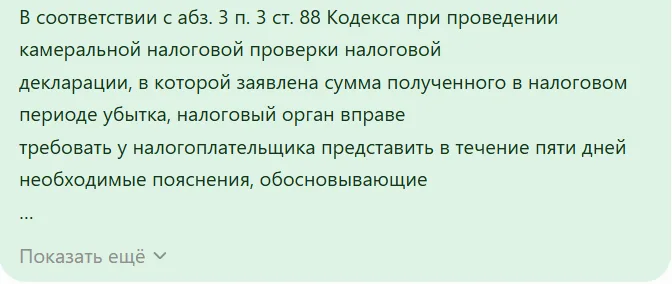
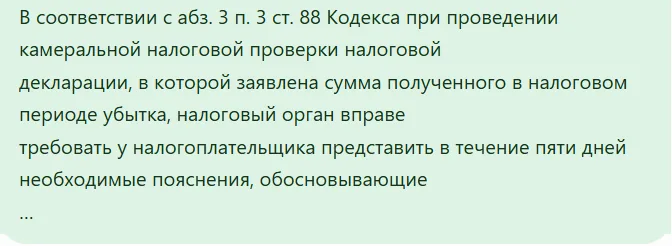
Обновление 04.10 12:43 МСК

diff --git a/proby.html b/proby.html
@@ -1,0 +1,105 @@
+<!DOCTYPE html>
+<html lang="ru">
+<head>
+<meta charset="utf-8">
+<meta name="viewport" content="width=device-width, initial-scale=1">
+<title>Черновик: три варианта прокрутки скриншотов</title>
+<meta name="robots" content="noindex, nofollow">
+<link rel="preconnect" href="https://fonts.googleapis.com">
+<link rel="preconnect" href="https://fonts.gstatic.com" crossorigin>
+<link rel="stylesheet" href="https://fonts.googleapis.com/css2?family=PT+Sans:wght@400;700&display=swap">
+<style>
+  * { box-sizing: border-box; }
+  body { margin: 0; background: #F7F5F1; color: #2B2E33; font: 17px/1.5 'PT Sans', system-ui, sans-serif; }
+  main { width: min(100% - 32px, 900px); margin: 0 auto; padding: 28px 0 80px; }
+  h1 { font-size: 26px; line-height: 1.2; margin: 0 0 8px; }
+  h2 { font-size: 22px; line-height: 1.25; margin: 44px 0 6px; color: #1B2A4A; }
+  .как { margin: 0 0 16px; color: #5A5D63; }
+  .окно { margin: 0; position: relative; padding-top: 24px; border-radius: 18px; overflow: hidden; background: #F7F5F1;
+    border: 1px solid #E2E0DA; box-shadow: 0 12px 34px rgba(43, 46, 51, .06); }
+  .окно::before { content: ""; position: absolute; inset: 0 0 auto; height: 24px; background: #E9E7E2; border-bottom: 1px solid #E2E0DA; }
+  .окно::after { content: ""; position: absolute; top: 8px; left: 12px; width: 8px; height: 8px; border-radius: 50%; background: #1B2A4A;
+    box-shadow: 14px 0 0 rgba(27, 42, 74, .55), 28px 0 0 rgba(27, 42, 74, .3); }
+  .окно img { display: block; height: auto; mix-blend-mode: multiply; }
+  .окно figcaption { padding: 10px 20px 18px; font-size: 14px; color: #5A5D63; }
+  .окно + .окно { margin-top: 16px; }
+
+  /* 1 · листать между двумя */
+  .лента { display: flex; overflow-x: auto; scroll-snap-type: x mandatory; scroll-behavior: smooth; -webkit-overflow-scrolling: touch; scrollbar-width: none; }
+  .лента::-webkit-scrollbar { display: none; }
+  .кадр { flex: 0 0 100%; scroll-snap-align: start; display: grid; place-items: center; padding: 24px 20px 8px; min-height: 290px; }
+  .кадр img { max-width: 100%; }
+  @media (max-width: 899px) { .кадр { min-height: 0; padding: 16px 12px 4px; } }
+  .пульт { display: flex; align-items: center; justify-content: center; gap: 14px; padding: 6px 20px 2px; }
+  .пульт button { width: 44px; height: 44px; border-radius: 50%; border: 1px solid #E2E0DA; background: #F7F5F1; color: #1B2A4A;
+    font: 700 22px/1 'PT Sans', sans-serif; cursor: pointer; }
+  .пульт button:disabled { opacity: .35; cursor: default; }
+  .пульт span { min-width: 5.5em; text-align: center; font-weight: 700; color: #1B2A4A; }
+
+  /* 2 · оба друг под другом, на узком экране каждый листается вбок */
+  .вбок { overflow-x: auto; -webkit-overflow-scrolling: touch; padding: 20px 20px 6px; }
+  .вбок img { max-width: 100%; }
+  @media (max-width: 899px) { .вбок img { max-width: none; } .вбок .запрос { width: 560px; } .вбок .ответ { width: 800px; } }
+
+  /* 3 · окно как чат: листается вверх-вниз */
+  .чат { height: 250px; overflow-y: auto; -webkit-overflow-scrolling: touch; padding: 20px 20px 8px; display: grid; gap: 20px; align-content: start; }
+  .чат img { max-width: 100%; }
+  .чат .запрос { justify-self: end; }
+  @media (max-width: 899px) { .чат { height: 170px; } }
+</style>
+</head>
+<body>
+<main>
+  <h1>Черновик: три варианта прокрутки скриншотов</h1>
+  <p class="как">Это проба для выбора, не часть сайта. Попробуйте каждый вариант и на компьютере, и на телефоне.</p>
+
+  <h2>Вариант 1 · Листать между двумя</h2>
+  <p class="как">В окне один скриншот. На телефоне проведите пальцем вбок, на компьютере нажмите стрелку — появится второй.</p>
+  <figure class="окно">
+    <div class="лента" id="лента">
+      <div class="кадр"><img src="img/skrin-zapros.webp" width="672" height="246" alt="Скриншот запроса к ChatGPT"></div>
+      <div class="кадр"><img src="img/skrin-otvet.webp" width="948" height="187" alt="Скриншот ответа ChatGPT"></div>
+    </div>
+    <div class="пульт">
+      <button type="button" id="назад" aria-label="Предыдущий скриншот" disabled>‹</button>
+      <span id="счёт">Запрос</span>
+      <button type="button" id="вперёд" aria-label="Следующий скриншот">›</button>
+    </div>
+    <figcaption>Скриншот моей переписки с ChatGPT, обезличено</figcaption>
+  </figure>
+
+  <h2>Вариант 2 · Оба друг под другом</h2>
+  <p class="как">Два скриншота в двух рамках, оба видны сразу. На компьютере помещаются целиком. На телефоне каждый листается пальцем вбок внутри своей рамки, буквы обычного размера.</p>
+  <figure class="окно">
+    <div class="вбок"><img class="запрос" src="img/skrin-zapros.webp" width="672" height="246" alt="Скриншот запроса к ChatGPT"></div>
+  </figure>
+  <figure class="окно">
+    <div class="вбок"><img class="ответ" src="img/skrin-otvet.webp" width="948" height="187" alt="Скриншот ответа ChatGPT"></div>
+    <figcaption>Скриншот моей переписки с ChatGPT, обезличено</figcaption>
+  </figure>
+
+  <h2>Вариант 3 · Окно как чат</h2>
+  <p class="как">Одно невысокое окно: сверху запрос, ниже ответ. Листается внутри окна вверх-вниз — колесом мыши или пальцем.</p>
+  <figure class="окно">
+    <div class="чат">
+      <img class="запрос" src="img/skrin-zapros.webp" width="672" height="246" alt="Скриншот запроса к ChatGPT">
+      <img class="ответ" src="img/skrin-otvet.webp" width="948" height="187" alt="Скриншот ответа ChatGPT">
+    </div>
+    <figcaption>Скриншот моей переписки с ChatGPT, обезличено</figcaption>
+  </figure>
+</main>
+<script>
+  (function () {
+    var лента = document.getElementById('лента'), назад = document.getElementById('назад'),
+        вперёд = document.getElementById('вперёд'), счёт = document.getElementById('счёт');
+    function обновить() {
+      var второй = лента.scrollLeft > лента.clientWidth / 2;
+      назад.disabled = !второй; вперёд.disabled = второй; счёт.textContent = второй ? 'Ответ ИИ' : 'Запрос';
+    }
+    назад.onclick = function () { лента.scrollTo({ left: 0 }); };
+    вперёд.onclick = function () { лента.scrollTo({ left: лента.scrollWidth }); };
+    лента.addEventListener('scroll', обновить);
+  })();
+</script>
+</body>
+</html>

diff --git a/style.css b/style.css
@@ -1783,7 +1783,6 @@ h2 .хвост-акцент { display: block; font-weight: 600; font-size: .6em;
   #экран-05 .счёт span { display: block; font-size: var(--кегль-лид); line-height: 1.45; }
   #экран-05 .доказательство { display: grid; grid-template-columns: 1.9fr 1fr; gap: 28px; align-items: stretch; }
   #экран-05 .мокап { min-width: 0; border-radius: var(--радиус-карточки); box-shadow: var(--тень); }
-  #экран-05 .слова { display: none; }
   #экран-05 .переписка { display: grid; gap: 20px; padding: 28px 32px 8px; }
   #экран-05 .мокап img { width: auto; max-width: 100%; height: auto; aspect-ratio: auto; object-fit: contain; mix-blend-mode: multiply; }
   #экран-05 .переписка img:first-child { justify-self: end; }
@@ -1808,18 +1807,7 @@ h2 .хвост-акцент { display: block; font-weight: 600; font-size: .6em;
     #экран-05 .роль p, #экран-05 .вывод p, #экран-05 .счёт span { font-size: var(--кегль-текст); }
     #экран-05 .вывод b { font-size: var(--кегль-текст); }
     #экран-05 .счёт li { padding: 20px 20px 22px; }
-    #экран-05 .слова { display: grid; gap: 14px; padding: 20px 16px 4px; }
-    #экран-05 .слова b { display: block; font-size: var(--кегль-мелкий); letter-spacing: .04em; margin-bottom: 6px; }
-    #экран-05 .слова p, #экран-05 .слова li { font-size: var(--кегль-текст); line-height: 1.5; margin-bottom: 0; }
-    #экран-05 .слова ul { margin: 8px 0 0; padding-left: 20px; display: grid; gap: 6px; }
-    #экран-05 .слова__запрос { padding: 14px 16px; border-radius: var(--радиус); }
-    #экран-05.светлый .слова b { color: var(--цвет-текст-тихий); }
-    #экран-05.светлый .слова p, #экран-05.светлый .слова li { color: var(--цвет-текст); }
-    #экран-05.светлый .слова__запрос { background: var(--цвет-фон-2); }
-    #экран-05.тёмный .слова b { color: color-mix(in srgb, var(--цвет-тёмный-текст) 65%, transparent); }
-    #экран-05.тёмный .слова p, #экран-05.тёмный .слова li { color: var(--цвет-тёмный-текст); }
-    #экран-05.тёмный .слова__запрос { background: color-mix(in srgb, var(--цвет-тёмный-текст) 8%, transparent); }
-    #экран-05 .переписка { display: block; margin-top: 16px; padding: 16px 16px 4px; overflow-x: auto; -webkit-overflow-scrolling: touch; border-top: 1px solid var(--цвет-линия); }
+    #экран-05 .переписка { display: block; padding: 20px 16px 4px; overflow-x: auto; -webkit-overflow-scrolling: touch; }
     #экран-05 .переписка img { display: block; }
     #экран-05 .переписка img + img { margin-top: 16px; }
     #экран-05 .мокап img { max-width: none; }

diff --git a/index.html b/index.html
@@ -213,24 +213,8 @@
     </div>
     <div class="доказательство">
       <figure class="мокап">
-        <div class="слова">
-          <div class="слова__запрос">
-            <b>Запрос</b>
-            <p>В соответствии с абз. 3 п. 3 ст. 88 Кодекса при проведении камеральной налоговой проверки налоговой декларации, в которой заявлена сумма полученного в налоговом периоде убытка, налоговый орган вправе требовать у налогоплательщика представить в течение пяти дней необходимые пояснения, обосновывающие …</p>
-          </div>
-          <div>
-            <b>Ответ ИИ</b>
-            <p>Основное влияние на финансовый результат оказали:</p>
-            <ul>
-              <li>увеличение расходов на приобретение товаров, материалов и услуг сторонних организаций;</li>
-              <li>рост операционных расходов, связанных с обеспечением деятельности организации;</li>
-              <li>изменение рыночной конъюнктуры и уровня затрат в отчётном периоде;</li>
-              <li>необходимость поддержания и развития текущей деятельности</li>
-            </ul>
-          </div>
-        </div>
         <div class="переписка">
-          <img src="img/skrin-zapros.webp" width="672" height="284" alt="Скриншот запроса к ChatGPT: отрывок требования налогового органа представить пояснения по убытку, без шапки и реквизитов" loading="lazy" decoding="async">
+          <img src="img/skrin-zapros.webp" width="672" height="246" alt="Скриншот запроса к ChatGPT: отрывок требования налогового органа представить пояснения по убытку, без шапки и реквизитов" loading="lazy" decoding="async">
           <img src="img/skrin-otvet.webp" width="948" height="187" alt="Скриншот ответа ChatGPT: что повлияло на финансовый результат — рост расходов на товары, материалы и услуги, рост операционных расходов, изменение рыночной конъюнктуры, поддержание и развитие деятельности" loading="lazy" decoding="async">
         </div>
         <figcaption>Скриншот моей переписки с ChatGPT, обезличено</figcaption>
